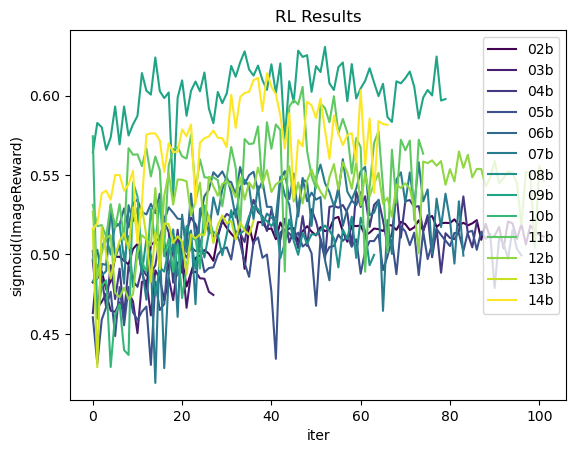
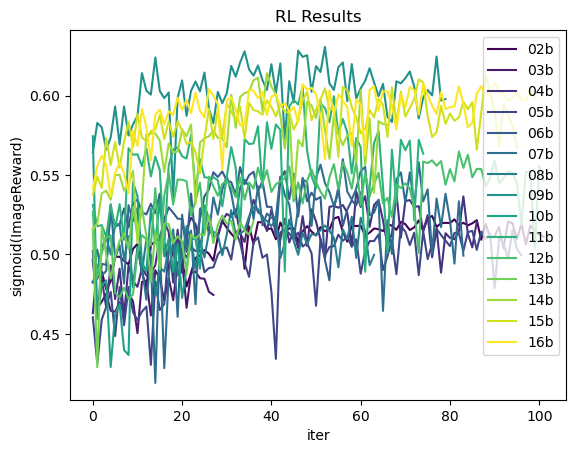
some preview

diff --git a/ch05/README.MD b/ch05/README.MD
@@ -366,9 +366,19 @@ Steps: 48, Sampler: Euler, CFG scale: 4, Seed: 1920996841, Size: 1024x1024, Mode
 
 - With `20a`, `20b`, `20c` presents, I may make `20d` by uniform merge them again.
 
-- For payloads and receipes, see [folder autombw](./autombw). [Plot has been added](./autombw/plot_rl.ipynb).
+- For payloads and receipes, see [folder autombw](./autombw). [Plot has been added](./autombw/plot_rl.ipynb). Since I've found the later models (`15b` , `16b`) failed to early exit within time limit, I slightly increase to 4320 minutes (3 days)
 
 ![img/rl_plot.png](img/rl_plot.png)
+
+### Comparasion between merges ###
+
+- *Preview only. I will switch to different topic because the Mercedes is included in the payloads.*
+
+![img/xyz_grid-0416-3972813705-28160-2069-4-48-20231121233052.jpg](img/xyz_grid-0416-3972813705-28160-2069-4-48-20231121233052.jpg)
+
+![img/xyz_grid-0415-3972813705-12800-1957-4-48-20231121231922/jpg](img/xyz_grid-0415-3972813705-12800-1957-4-48-20231121231922.jpg)
+
+- The "count of merged models" should exceed 6 to successfully output the legit image, which matches with the session above.
 
 ### "AutoMBW" as a variant of ~~Boosting~~ RL ###
 
